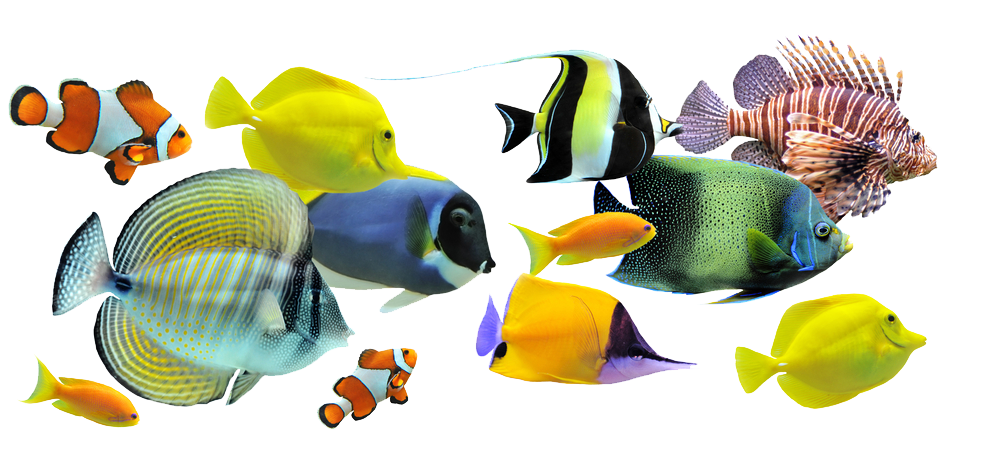
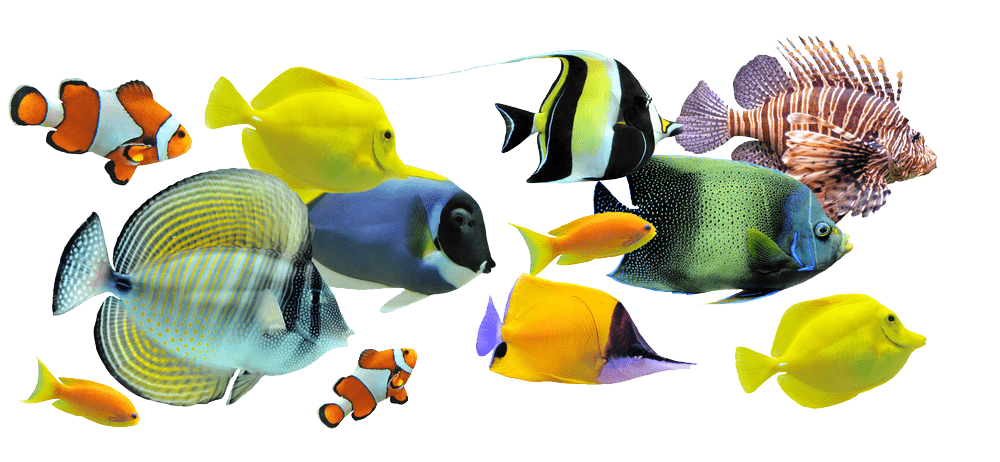
Imágenes mejoradas y optimizadas.

Changed region(s): [[0.589, 0.7576, 0.62, 0.8182]]

diff --git a/src/app/reservaciones/reservaciones.component.html b/src/app/reservaciones/reservaciones.component.html
@@ -128,7 +128,7 @@
                     <i class="fa-solid fa-user fa-lg" style="color: #033d1e;"></i>
                     <p>Nombre</p> 
                     <div class="control">
-                        <input class="input" type="text" value="{{res.nombre}}" readonly />
+                        <input class="input" type="text" value={{res.nombre}} readonly />
                     </div>   
                 </div>
                 <div class="iconp">

diff --git a/src/app/reservaciones/reservaciones.component.css b/src/app/reservaciones/reservaciones.component.css
@@ -13,7 +13,7 @@ h1{
 }
 
 
-div.anteriorContainer{
+div.anteriorContainer, div.futurasContainer{
     display: flex;
     justify-content: center;
     flex-wrap: wrap;
